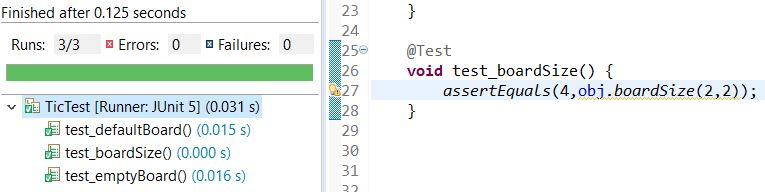
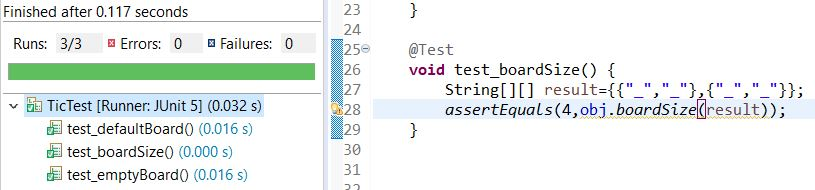
Commit 5 - test_boardSize() - Pass

diff --git a/Lab04/tic_java/test/TicTest.java b/Lab04/tic_java/test/TicTest.java
@@ -22,7 +22,7 @@ class TicTest {
 	@Test
 	void test_boardSize() {
 		String[][] result={{"_","_"},{"_","_"}};
-	    assertEquals(3,obj.boardSize(result));
+	    assertEquals(4,obj.boardSize(result));
 	}
 	
 }
